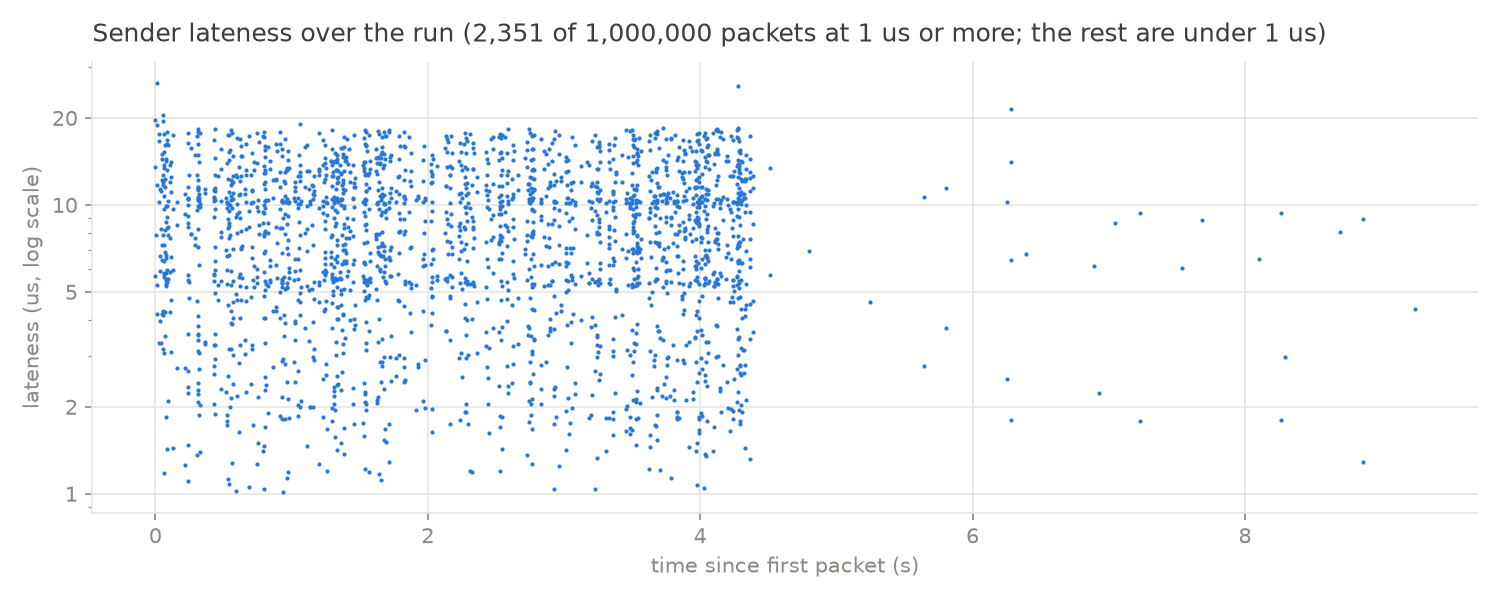
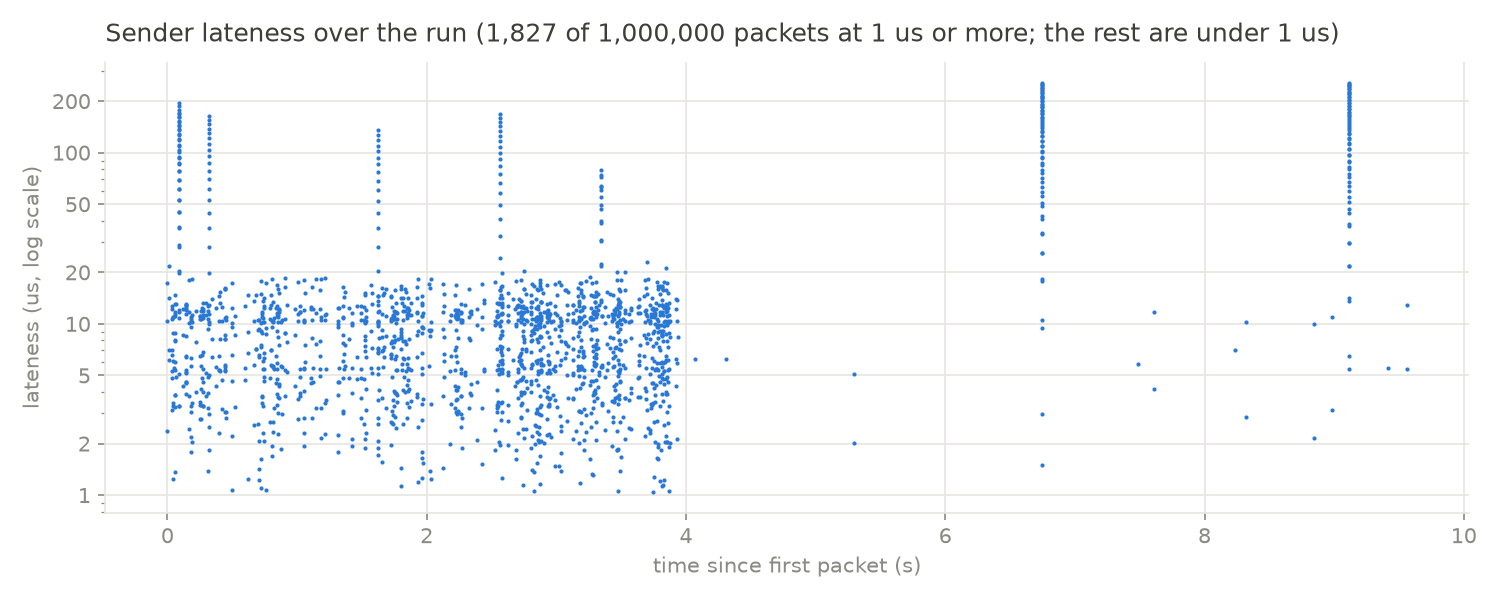
updated README

diff --git a/src/sender/main.cpp b/src/sender/main.cpp
@@ -9,7 +9,6 @@
 #include <chrono>
 #include <iostream>
 #include <stdexcept>
-#include <system_error>
 #include <vector>
 
 #include "netrx/config.hpp"

diff --git a/README.md b/README.md
@@ -7,24 +7,75 @@ and measures the lateness and latency of each one.
 
 - **Lateness:** how far behind schedule the sender was when sending each packet
 - **Latency:** time from a packet's scheduled send time to when the receiver gets it
+- **Pipeline latency:** time from when the packet was actually sent to when the
+  receiver gets it, which shows the receiver's side without the sender's delays
 
 Results are reported as p50, p95, p99, p99.9, max and average. Averages alone
 are misleading: p50 and p99 can be low while a few very slow packets drag the
 average up, so the focus is on the tail.
 
-## Status
+## Tuning results (loopback)
 
-Work in progress. A sender and receiver are working, built on an RAII socket
-wrapper and a sequence tracker that detects dropped and reordered packets.
+All results are on a Debian 13 server (kernel 6.12, 4 cores / 8 threads) over
+UDP loopback. Each change was measured separately, over at least 5 runs.
 
-Next: tuning the Linux kernel and system (core isolation, IRQ affinity, busy
-polling, receive buffer size) to reduce the stalls that cause the slowest
-packets, measuring each change separately.
+### The biggest change came from my own code
+
+The biggest change came from my own code, not a kernel setting. The sender took
+its start time before creating two 8 MB sample vectors. Creating them also
+writes to them, which caused about 4,000 page faults, so the first ~600 packets
+were recorded as late. Moving one line cut the worst-case latency from about
+5 ms to under 140 µs. When you create a large vector, you have to think about
+paging, especially before anything you're timing.
+
+### Busy polling
+
+Busy polling was the biggest receiver-side win. Instead of sleeping until a
+packet arrives, the receiver never sleeps and keeps checking for packets. That
+removes the wake-up cost, and the expensive wake-ups were a big part of the
+receive tail. Pipeline latency p50 dropped from about 3.0–3.3 µs to 1.7–2.1 µs,
+and p99.9 from 5.3–13.6 µs to about 3.7–4.2 µs, with much less run-to-run
+spread. The cost is a whole CPU core spent checking for packets.
+
+### What didn't help
+
+Limiting idle states, isolating the receiver's core, stopping the timer tick
+(`nohz_full`) and making the sender sleep between packets did little or
+nothing, and some made things worse: `nohz_full` and sleep-then-spin both made
+`sendto` slower. Sometimes your own code makes more of a difference than kernel
+settings. Every knob has a cost, so measure before keeping one.
+
+Full kernel preemption (`preempt=full`) was the one kernel setting I kept:
+across 10 runs it kept the sender's worst case under 100 µs in 8 of them,
+against 255 µs to 1.4 ms with the default, at no measurable cost to the median.
+
+### Before and after
+
+Sleep-mode receiver, latency from the scheduled send time, 5 runs each.
+
+| | First server baseline | After tuning |
+|---|---|---|
+| p50 | 3.36–3.39 µs | 3.04–3.29 µs |
+| p99.9 | 25.6–201 µs | 15.0–25.0 µs |
+| max | 5.9–6.8 ms | 83–360 µs |
+
+## Roadmap
+
+- Real network link between two machines, measured by round trip since the
+  machines don't share a clock
+- Kernel bypass with AF_XDP
+- An order book fed by the receiver
+- Replaying a real exchange feed (Nasdaq ITCH) and a 24-hour stability run
 
 ## Build and run
 
 ```
-cmake -B build && cmake --build build
-taskset -c 2 ./build/receiver &
-taskset -c 4 ./build/sender
+cmake -B build -DCMAKE_BUILD_TYPE=Release && cmake --build build
+mkdir -p results
+sudo taskset -c 2 chrt -f 99 ./build/receiver sleep &
+sleep 1; sudo taskset -c 4 chrt -f 99 ./build/sender
 ```
+
+The receiver takes a mode, `sleep` (blocking `recv`) or `busy` (busy polling),
+and an optional receive buffer size in bytes. Both programs write raw samples
+to `results/`, and `scripts/plot.py` turns them into plots.
